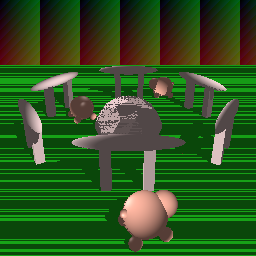
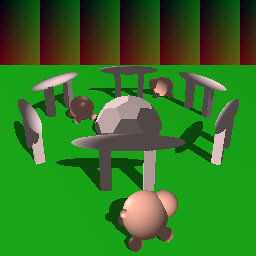
hier works, one bit error ignored, wip bounding volume

diff --git a/A4/A4.cpp b/A4/A4.cpp
@@ -152,17 +152,17 @@ bool hitTriangle(glm::vec3 v1, glm::vec3 v2, glm::vec3 v3, glm::vec3 eye, glm::v
     
     T = eye - v1;
     u = glm::dot(T, P) * inv_det;
-    if(u < eps || u > 1-eps) return false;
+    if(u < eps || u > 1+eps) return false;
     
     Q = glm::cross(T, e1);
     v = glm::dot(dir, Q) * inv_det;
-    if(v<eps || u+v > 1-eps) return false;
+    if(v<eps || u+v > 1+eps) return false;
     
     t = glm::dot(e2, Q)*inv_det;
     
-    if((t > min-eps) && (t < max+eps)){
+    if((t > min+eps) && (t < max-eps)){
         n = glm::cross(e1, e2);
-        if(glm::dot(n, dir) > -eps){
+        if(glm::dot(n, dir) > +eps){
             n = -n;
         }
         lt = t;
@@ -226,7 +226,7 @@ bool hit(glm::vec3 eye, glm::vec3 pixel, GeometryNode node, PhongMaterial **mat,
                 lt = -B - sqrt(determ);
                 lt = lt / (2*A);
             }
-            if(lt >= min - eps && lt < max + eps){
+            if(lt >= min + eps && lt < max - eps){
                 if(lt < t){
                     nhsBool = true;
                     // closest one
@@ -302,8 +302,8 @@ bool hit(glm::vec3 eye, glm::vec3 pixel, GeometryNode node, PhongMaterial **mat,
     hitNormal = glm::vec3(glm::inverse(invM)*glm::vec4(hitNormal, 0.0f));
     
     if(retBool){
-        assert(t>min-eps);
-        assert(t<max+eps);
+        assert(t>min+eps);
+        assert(t<max-eps);
     }
     // ignores other kinds of primitives for now
     return retBool;
